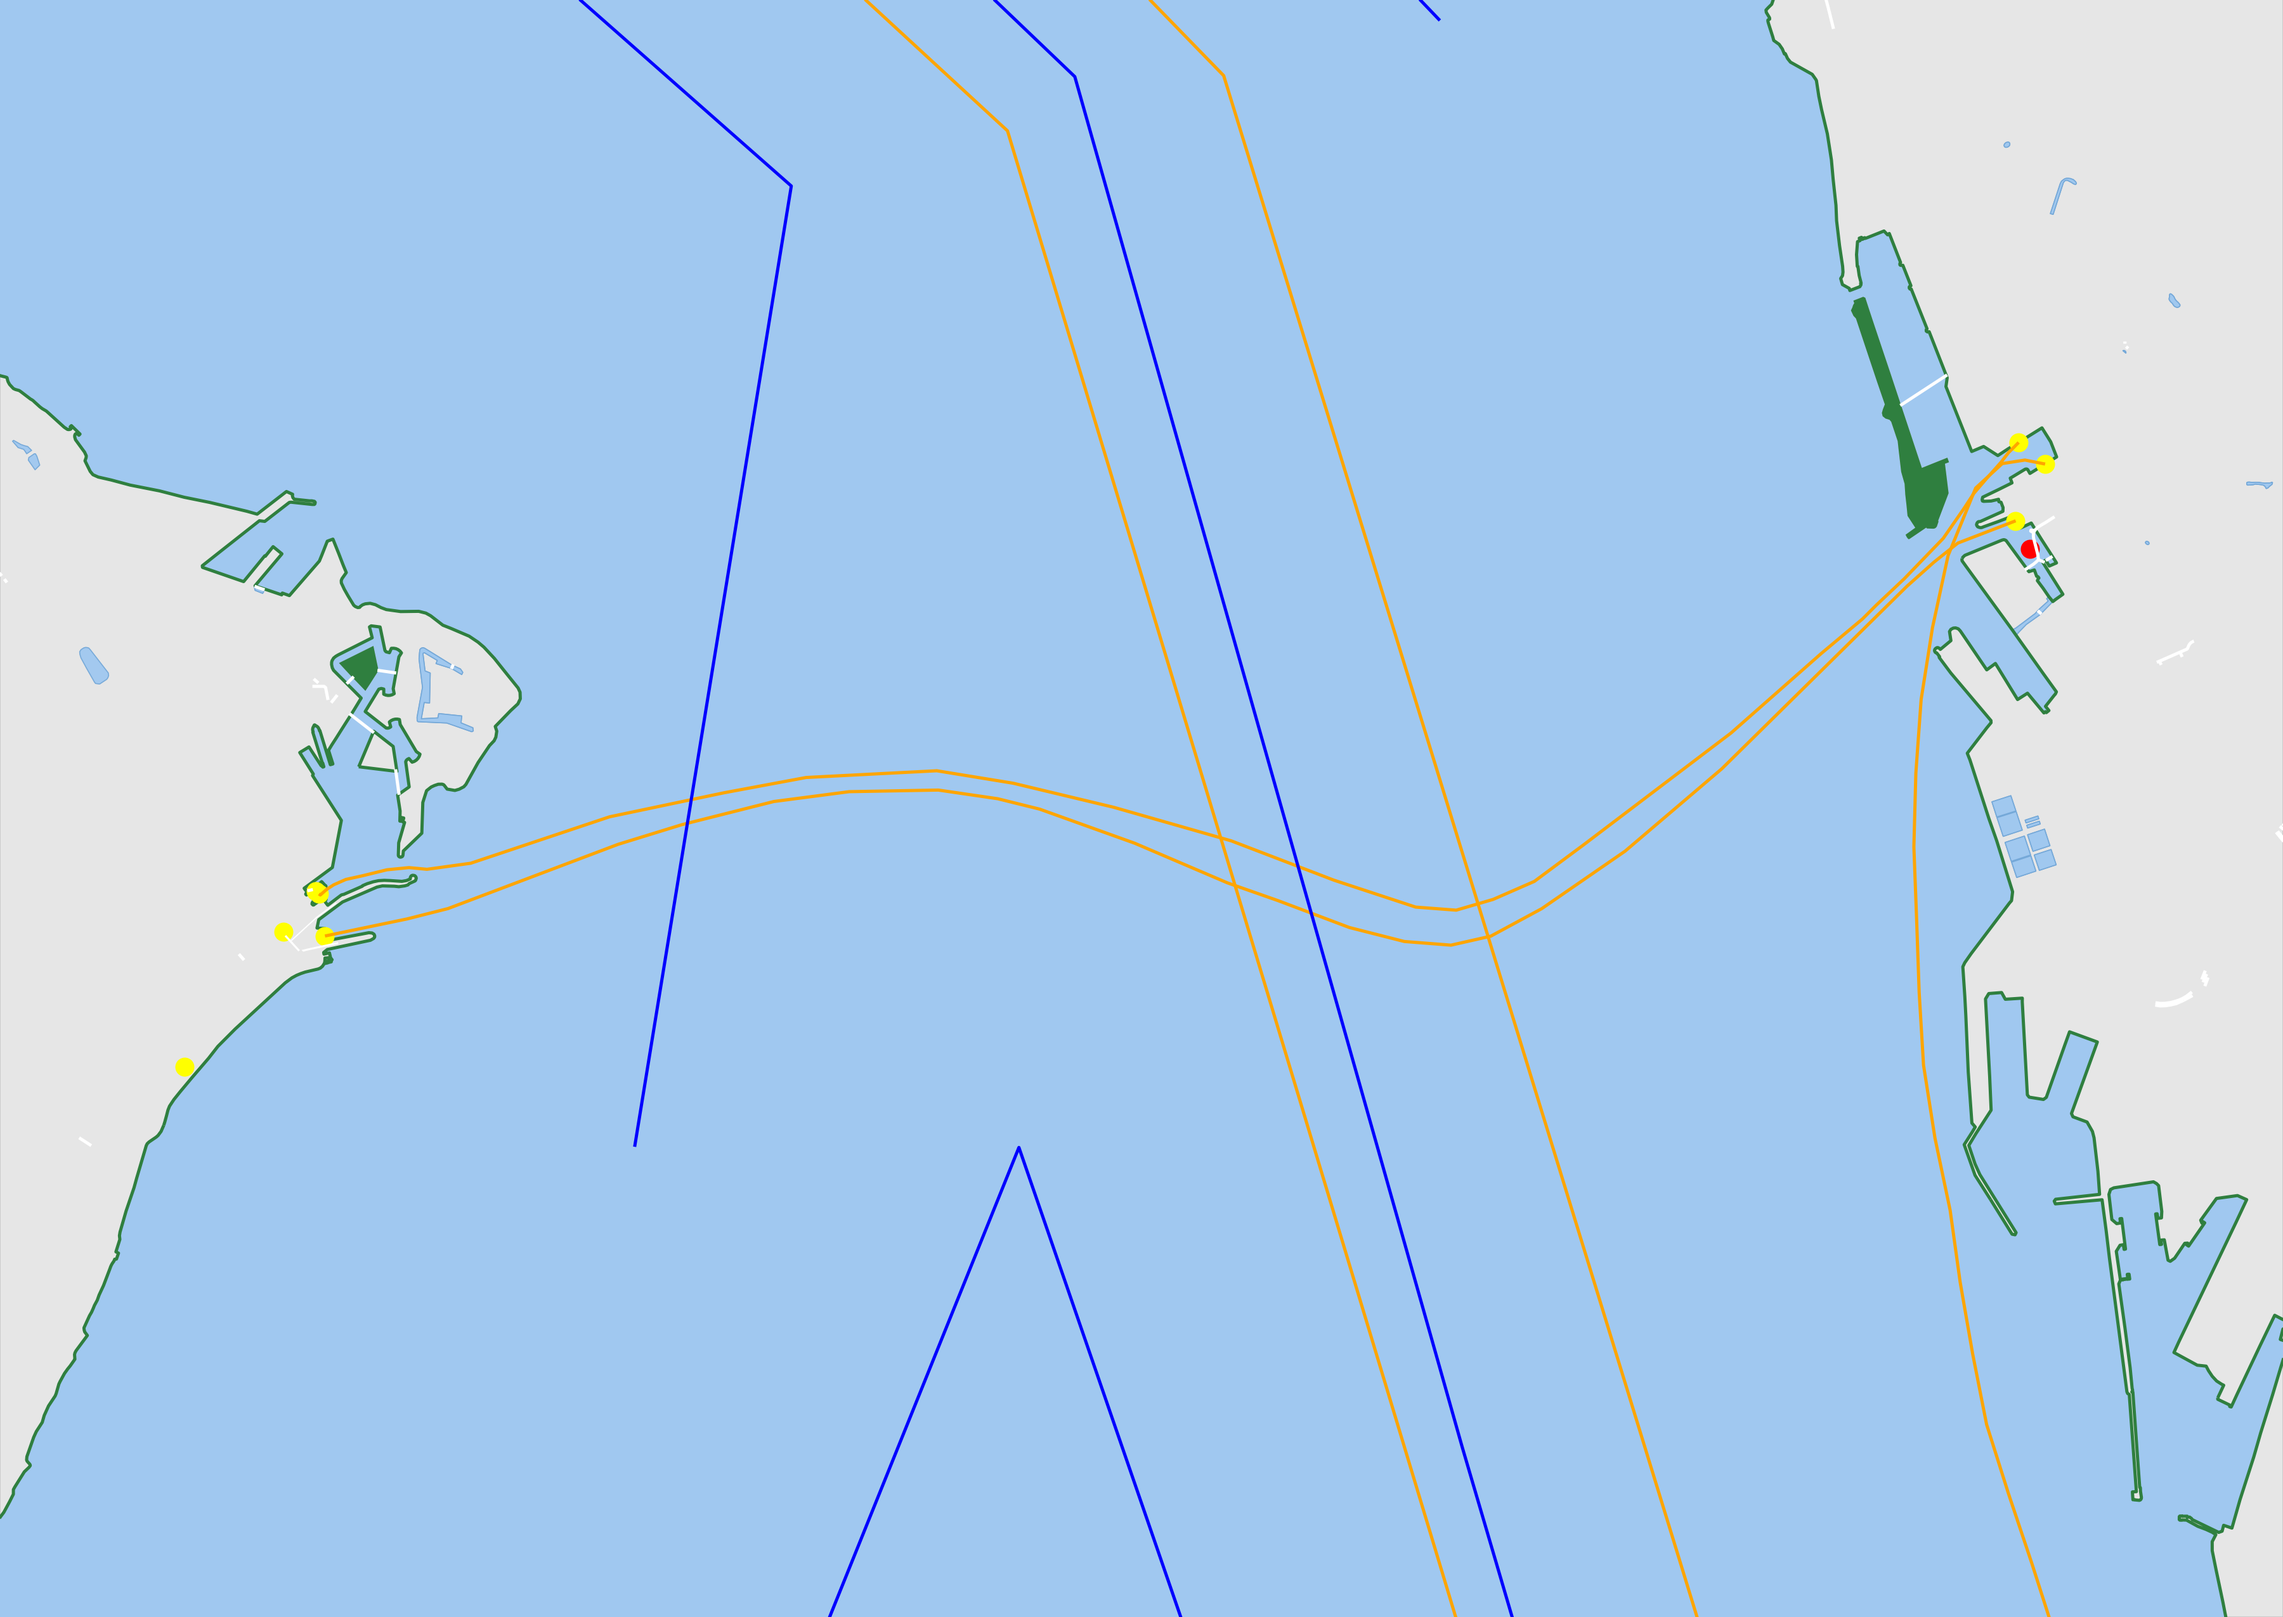
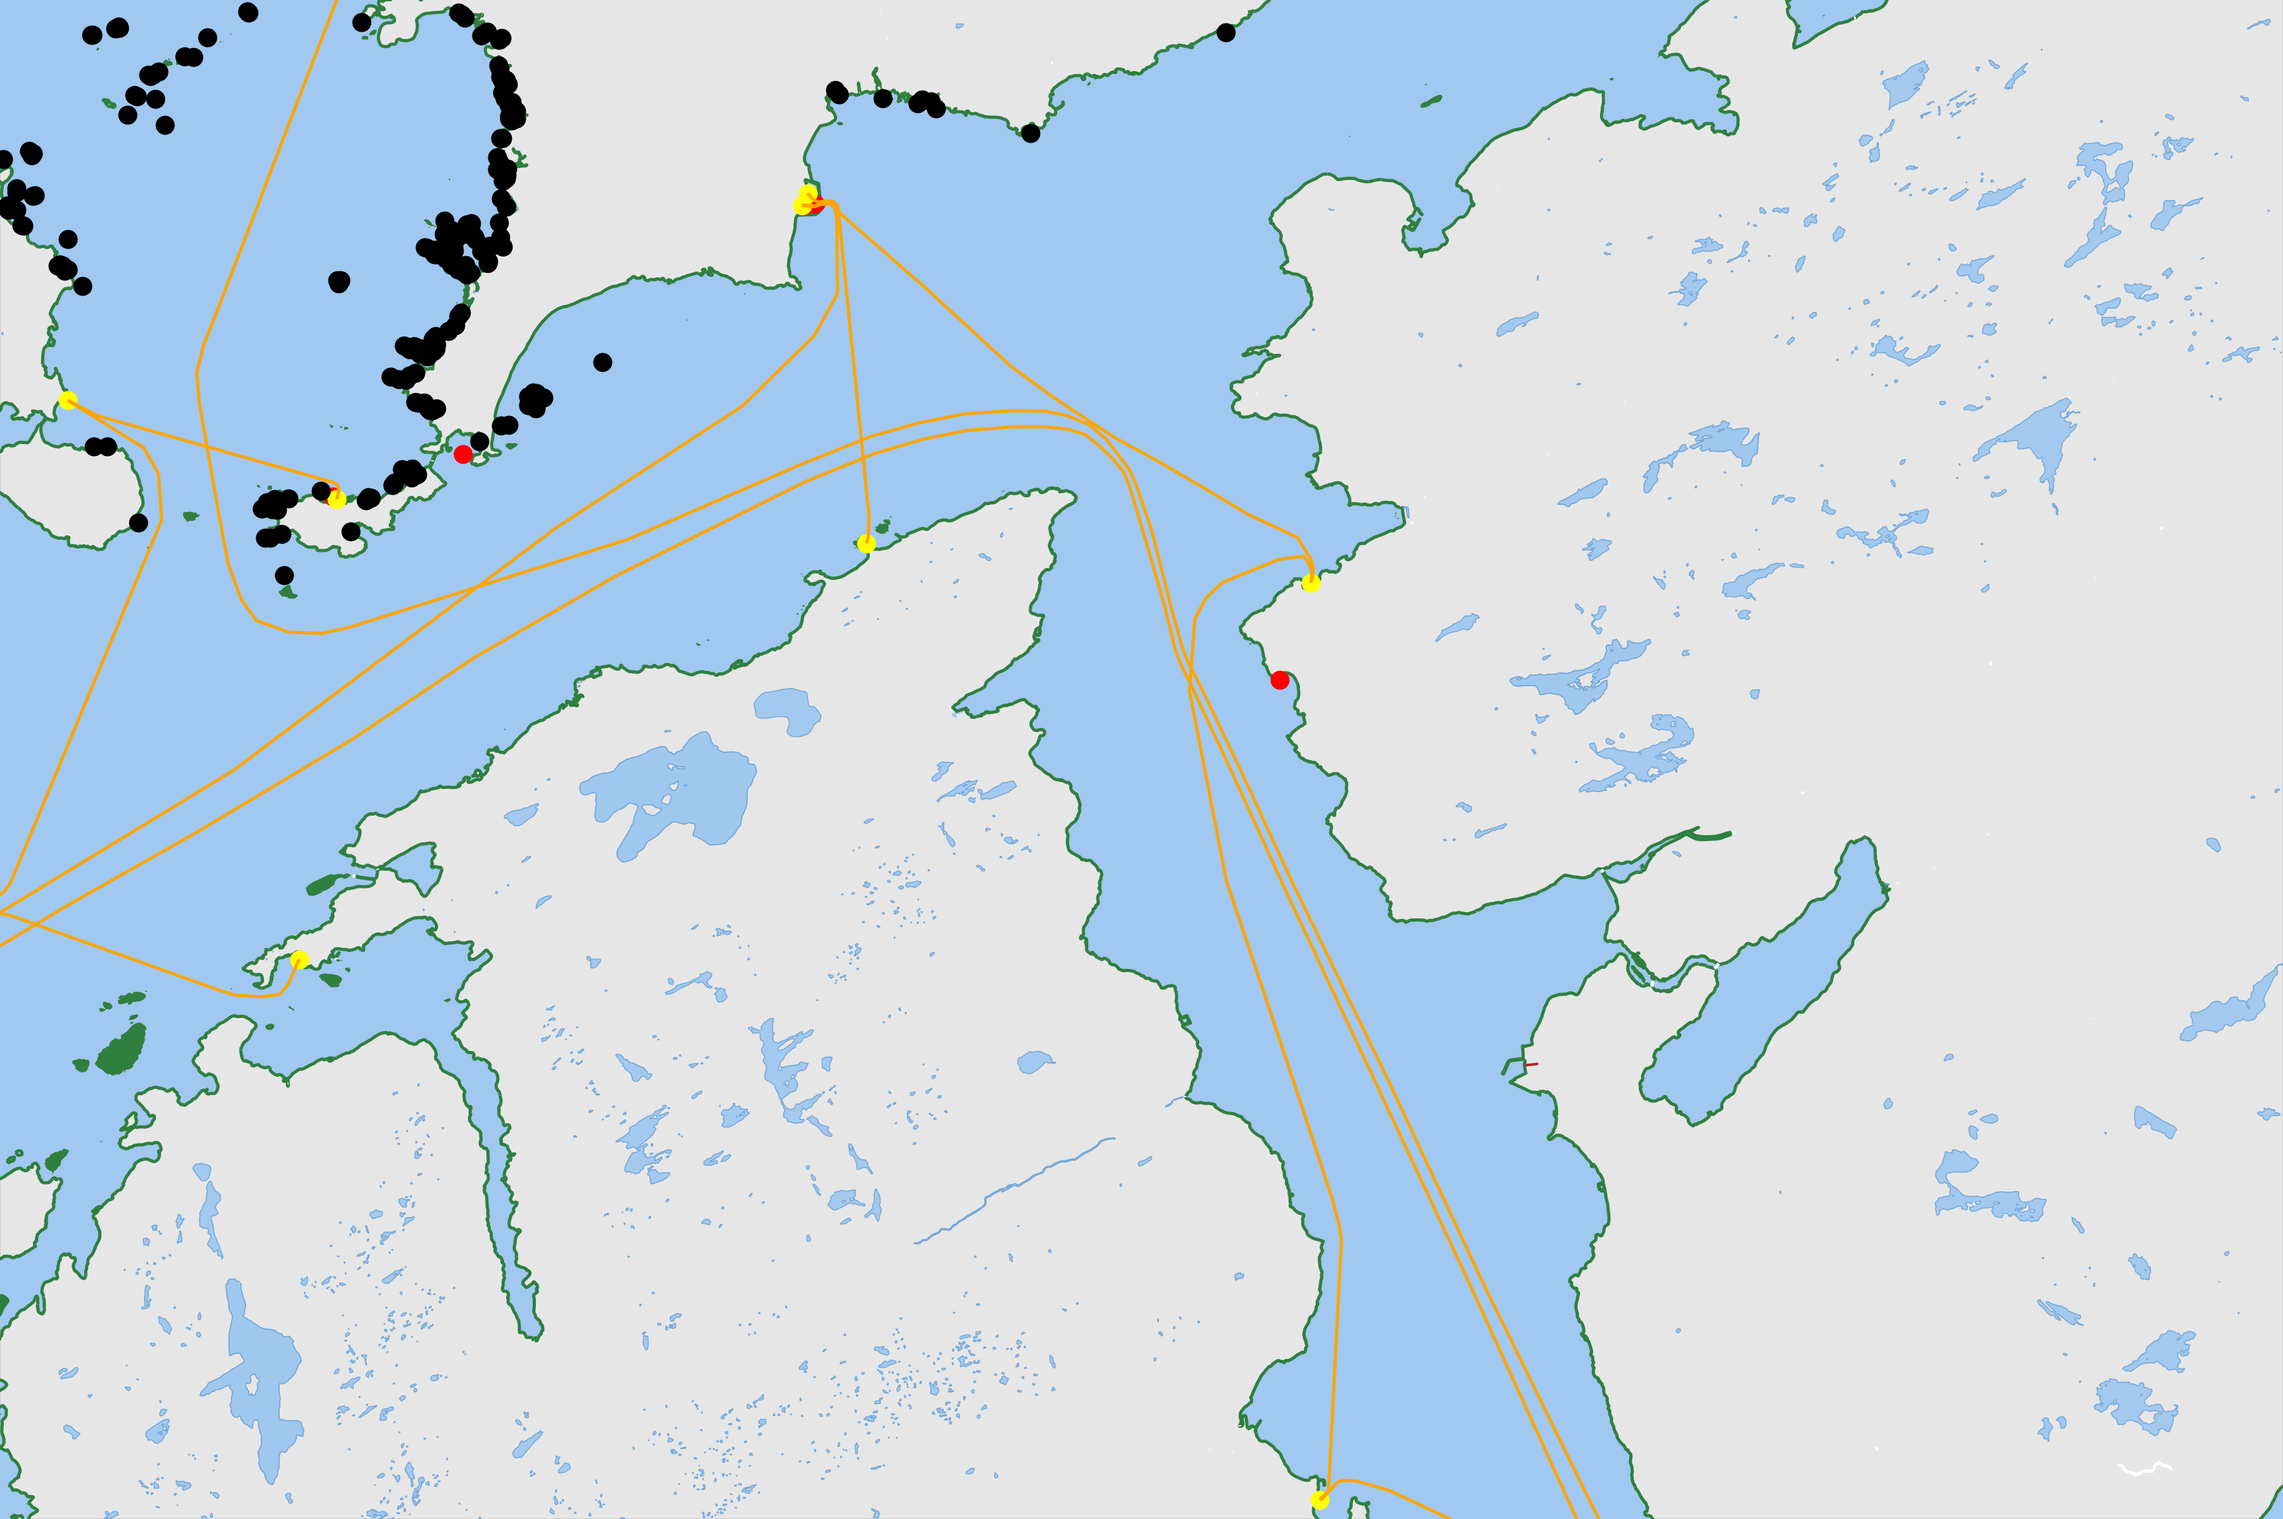
large aoi readme update

diff --git a/osm2gpkg.py b/osm2gpkg.py
@@ -5,12 +5,12 @@ from shapely.ops import unary_union
 from shapely.geometry import box
 import matplotlib.pyplot as plt
 
-OSM_XML   = "osmFiles/Helsingborg_Helsingor.osm"  # change this path to your new AOI .osm
+OSM_XML   = "testing.osm"  # change this path to your new AOI .osm
 LAND_SHP  = r"osmFiles/land-polygons-complete-4326/land-polygons-complete-4326/land_polygons.shp"
 WATER_SHP = r"osmFiles/water-polygons-split-4326/water-polygons-split-4326/water_polygons.shp"  # optional
 
 #directory to save the gpkg file
-OUT_GPKG = "files/basemap.gpkg"
+OUT_GPKG = "testing.gpkg"
 
 # --- (1) HARD-RESET THE OUTPUT GPKG ---
 if os.path.exists(OUT_GPKG):
@@ -18,7 +18,13 @@ if os.path.exists(OUT_GPKG):
 
 # Bounds from OSM → frame (WGS84)
 b = ET.parse(OSM_XML).getroot().find("bounds")
-minx, miny, maxx, maxy = map(float, (b.get("minlon"), b.get("minlat"), b.get("maxlon"), b.get("maxlat")))
+
+#Specify the boundary box area for the map.
+ 
+# minx, miny, maxx, maxy = map(float, (b.get("minlon"), b.get("minlat"), b.get("maxlon"), b.get("maxlat"))) #Automatic
+minx, miny, maxx, maxy = 9.4153,63.5023,10.1336,63.7148 #Manual
+
+
 frame_wgs84 = gpd.GeoDataFrame(geometry=[box(minx, miny, maxx, maxy)], crs="EPSG:4326")
 
 # Land/Ocean mask

diff --git a/readgpkg.py b/readgpkg.py
@@ -2,7 +2,7 @@
 import geopandas as gpd
 import matplotlib.pyplot as plt
 
-gpkg = "files/basemap.gpkg"
+gpkg = "testing.gpkg"
 
 # Read the exact AOI box + layers (UTM = metric CRS)
 # You can also read frame_wgs84, frame_3857 frame_utm depending on the format you want for your application.

diff --git a/README.md b/README.md
@@ -18,7 +18,7 @@ You need to download two files which are the OSM coastline products.
 
 ## Mapped Area 
 Go to the area you would like to convert to gpkg at https://www.openstreetmap.org/export
-You can manually select an area, but bear it in mind that OSM has limited nodes, so you cannot select a large area with so many features. You may need to zoom in for that.
+You can manually select an area, but bear it in mind that OSM has limited nodes, so you cannot select a large area with so many features (refer below for documentation for larger areas). You may need to zoom in for that.
 
 The export button pops up as soon as you can download the features. Download the map and put the path reference to OSM_XML in osm2gpkg.py
 There are more features than included in this project, but the current features implemented are:
@@ -28,7 +28,10 @@ There are more features than included in this project, but the current features 
 - waterways
 
 ## Running
-Run the osm2gpkg.py file and that generates the gpkg file in file/basemap.gpkg and a figure of the mapped area in figures/map_fit.png
+Run the osm2gpkg.py file and that generates the gpkg file in file/basemap.gpkg and a figure of the mapped area in figures/map_fit.png. You can use automatic selection for the boundary box as in
+`minx, miny, maxx, maxy = map(float, (b.get("minlon"), b.get("minlat"), b.get("maxlon"), b.get("maxlat"))) #Automatic`
+comment the manual
+
 
 ## Reading GPKG 
 Run readgpkg.py to read the same file in file/basemap.gpkg and plot it without having to iterate through the land and water polygons anymore. This can be a layer on which you can build your project that requires plotting on earth geographical features.
@@ -36,3 +39,35 @@ You can read from the gpkg file in different format, as we have saved from the c
 - frame_wgs84
 - frame_3857 
 - frame_utm
+
+# READING A LARGER AREA OF INTEREST
+You can download a larger area, such as the full planet from https://planet.openstreetmap.org/, or for continents/countries from https://download.geofabrik.de/
+You get a .pbf file from these websites. You need to convert the .pbf files to .osm, and then from .osm to .gpkg.
+
+## To extract your large area of interest from larger area of interest
+### conda install -c conda-forge osmium-tool
+### pip install osmium
+### brew install osmium-tool
+
+Use the terminal and run:
+`osmium extract -b <area of interest co-ordinate> <your_pbf_file.pbf> -o <name_of_smaller_pbf.pbf> --overwrite`
+For example:
+`osmium extract -b 9.4153,63.5023,10.1336,63.7148 osmFiles/norway-251022.osm.pbf -o trondheim.pbf --overwrite`
+
+
+
+## To convert from .pbf to .osm
+For fast processing, use the terminal and run:
+`osmium cat <name_of_smaller_pbf.pbf> -o <name_of_smaller_osm.osm> -f osm -O`
+For example:
+`osmium cat trondheim.pbf -o trondheim.osm -f osm -O`
+
+
+You can then run as described above to convert your osm file to gpkg and read it. 
+You have to manually set the boundarybox area of interest in osm2gpkg.py as in
+`minx, miny, maxx, maxy = 9.4153,63.5023,10.1336,63.7148 #Manual`
+and comment the automatic.
+
+Note, the larger your area, and the many the features, the longer it takes to convert to osm.
+Reading the osm files should not take long anymore.
+You can select the features and adjust the colors as you like.
